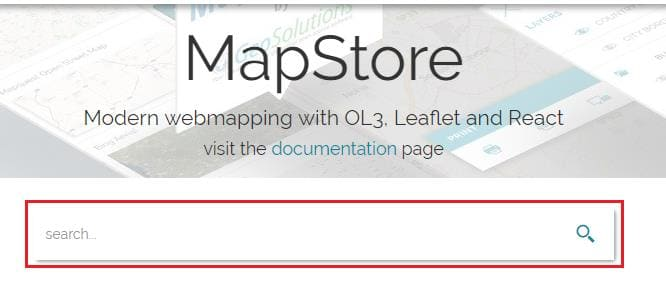
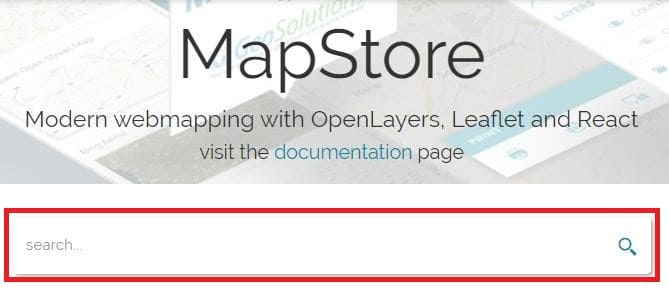
Homepage and little more

diff --git a/docs/user-guide/home-page.md b/docs/user-guide/home-page.md
@@ -1,74 +1,68 @@
 # Home Page
 *******************
 
-In order to get started, let us take a look at the portal interface and get an idea of how to navigate around it. Some functionalities are only restricted for
-*Administrators* and will be pointed out once encountered. However, you will learn more about *Administrators*, *Users* and *Groups* [here](managing-users-and-groups.md).
+In order to get started, let us take a look at the portal interface and get an idea of how to navigate around it. First of all it's necessary to specify that the user can take advantage of different tools and sections according to his authentication in [MapStore](https://mapstore.geo-solutions.it/mapstore/#/). In particular, a user can access the [MapStore](https://mapstore.geo-solutions.it/mapstore/#/) application by:
 
-Once logged in as *Administrator*, the *Welcome Home Page* shows up as in the figure below and you will be able to view and make use of all the functionalities.
+* Anonymous user
 
-<img src="../img/home-page/home-page.jpg" class="ms-docimage" />
+* Normal user
 
-Menu bar
---------
+* Administrator user
 
-On the top of the page, you can find the *Main Menu bar* showing the following menus :
+## Anonymous user
 
-* Connections to [GeoSolutions](https://www.geo-solutions.it/), Featured and Contents sections <img src="../img/home-page/connections.jpg" class="ms-docbutton" style="max-height:20px;"/> (will be treated later).
+Accessing MapStore as anonymous user, the [Homepage](https://mapstore.geo-solutions.it/mapstore/#/) shows up as in the figure below:
 
-* Language Switcher menu list.
+<img src="../img/home-page/homepage-anonym.jpg" class="ms-docimage"/>
 
-<img src="../img/home-page/language-switcher.jpg" class="ms-docimage"  style="max-width:200px;"/>
+The anonymous user is allowed to:
 
-* Own Account Manager menu.
+* Navigate through the *Featured* and *Contents* section 
 
-<img src="../img/home-page/own-account.jpg" class="ms-docimage"  style="max-width:200px;"/>
+<img src="../img/home-page/feat-cont.jpg" class="ms-docimage"/>
 
-* Accounts manager
+* Set the application language, with the *Language switcher*:
 
-<img src="../img/home-page/manage-accounts.jpg" class="ms-docimage"  style="max-width:200px;"/>
+<img src="../img/home-page/language-switcher.jpg" class="ms-docimage"  style="max-width:150px;"/>
 
-!!! note
-    The *Accounts manager* section, where *Users* and *Groups* can be managed, is reserved to the *Administrator*.
+* Login <img src="../img/button/login-b.jpg" class="ms-docbutton"/>:
 
-Search bar
-------------
+<img src="../img/home-page/login.jpg" class="ms-docimage"  style="max-width:500px;"/>
 
-Under the menu bar, you can use the *Search bar* to search maps and dashboards stored in [MapStore](https://mapstore.geo-solutions.it/mapstore/#/).
+* Perform a search for resources, through the *Search bar*:
 
 <img src="../img/home-page/search-bar.jpg" class="ms-docimage"  style="max-width:500px;"/>
 
-New Map and Dashboard
----------------------
+* [Share](share.md) a resource <img src="../img/button/share.jpg" class="ms-docbutton"/>
 
-Under the search bar you can find two icon buttons to create a <span style="color:red">New Map</span> or a <span style="color:blue">New Dashboard</span>.
+* Take a look at map [details](resources-properties.md#details) when available <img src="../img/button/details_button.jpg" class="ms-docbutton"/>
 
-<img src="../img/home-page/map-dash.jpg" class="ms-docimage"/>
+* Open resources and navigate inside it according to their [permissions](resources-properties.md#permission-rules)
 
-Featured
---------
+## Normal user
 
-In this container the favorites maps and dashboards are stored and marked by a green star.
+With a login as normal user, the [Homepage](https://mapstore.geo-solutions.it/mapstore/#/) displays as below:
 
-<img src="../img/home-page/featured.jpg" class="ms-docimage"/>
+<img src="../img/home-page/homepage-user.jpg" class="ms-docimage" />
 
-!!! note
-    Only *Administrators* can add maps and dashboards to *Featured* by clicking on the star icon button.
+The normal user, in addition to what the anonymous user can do, is allowed to:
 
-Contents
---------
+* Create new resources:
 
-In this section new maps will be stored into the <span style="color:red">*Maps* </span>container and new dashboards into the <span style="color:blue">*Dashboards* </span>container.
+<img src="../img/home-page/new-res.jpg" class="ms-docimage" style="max-width:150px;"/>
 
-<img src="../img/home-page/contents.jpg" class="ms-docimage"/>
+* View, edit and remove resources according to their [permissions](resources-properties.md#permission-rules) <img src="../img/button/remove-edit.jpg" class="ms-docbutton"/>
 
-Depending on the permissions, the user can view and use the configuration icon buttons for each map or dashboard.
+## Administrator user
 
-<img src="../img/home-page/config.jpg" class="ms-docimage"/>
+Once logged in as *Administrator*, the [Homepage](https://mapstore.geo-solutions.it/mapstore/#/) it's like the following:
 
-* <img src="../img/button/delete.jpg" class="ms-docbutton"/> allows you to delete the map or the dashboard.
+<img src="../img/home-page/homepage-admin.jpg" class="ms-docimage" />
 
-* <img src="../img/button/properties.jpg" class="ms-docbutton"/> allows you to edit the properties of the map or the dashboard such as the thumbnail, name, details and permissions.
+The admin can see and edit everything. In particular, in addition to what normal user can do, an administrator:
 
-* <img src="../img/button/details.jpg" class="ms-docbutton"/> allows you to show the map or the dashboard details.
+* Access the [Accounts manager](managing-users-and-groups.md) <img src="../img/button/acc-manager.jpg" class="ms-docbutton"/>
 
-* <img src="../img/button/add-featured.jpg" class="ms-docbutton"/> allows you to add the map or the dashboard to *Featured*.
+* Menage the *Featured* resources by including <img src="../img/button/featured.jpg" class="ms-docbutton"/> or excluding <img src="../img/button/unfeatured.jpg" class="ms-docbutton"/> them from this section
+
+* View, edit and remove any resource

diff --git a/docs/user-guide/resources-properties.md b/docs/user-guide/resources-properties.md
@@ -1,15 +1,7 @@
 # Resource Properties
 ------------------------------
 
-What a user can do on a resource (both maps and dashboards) depends on its role.
-
-* **Admin** users can manage accounts and can *view* and *edit* all the maps and dashboards, whoever created them
-
-* **Users** can view and edit only those maps and dashboards which they have created. If they are neither administrators nor owners, what they can do depends on the *Rights* assigned to the group they belong to
-
-* **Everyone** can view or edit the maps and dashboard according to the *rights* that have been assigned by the administrator or their owners
-
-In order to customize the properties of a resource, the admin or an user with permission can access the **Edit properties** window from the **Edit properties** button <img src="../img/button/edit-icon.jpg" class="ms-docbutton"/> in [Homepage](https://mapstore.geo-solutions.it/mapstore/#/) or from the **Save**/**Save as** button inside the resource viewer.
+In order to customize the properties of a resource, the admin or a normal user with permission can access the **Edit properties** window from the **Edit properties** button <img src="../img/button/edit-icon.jpg" class="ms-docbutton"/> in [Homepage](https://mapstore.geo-solutions.it/mapstore/#/) or from the **Save**/**Save as** button inside the resource viewer.
 
 <img src="../img/resource-properties/edit-properties.jpg" class="ms-docimage"  style="max-width:400px;"/>
 
@@ -31,11 +23,11 @@ It is possible to add an image as **thumbnail** dropping it or clicking inside t
 <img src="../img/resource-properties/thumb.jpg" class="ms-docimage"/>
 
 !!! warning
-    The image to be added must not be larger than 500 kb and its best dimensions are 300x180 px.
+    The image to be added must not be larger than 500 kb and its best dimensions are 300x180 px. The supported formats are `jpg` (or `jpeg`) and `png`.
 
-## Permission rule
+## Permission rules
 
-In the **Add a rule...** section you can set one ore more permission rules in order to allow everyone and/or specific groups of users to access the resource. Moreover it is possible to choose between two different ways with which the selected group can approach the resource:
+In the **Add a rule...** section you can set one ore more permission rules in order to allow a group to access the resource. In particular it is possible to choose between a particular group of authenticated users or the *everyone* group that includes all authenticated users but also anonymous users. Moreover it is possible to choose between two different ways with which the selected group can approach the resource:
 
 * **View** the map and save a copy
 

diff --git a/docs/user-guide/text-editor-details.md b/docs/user-guide/text-editor-details.md
@@ -28,3 +28,6 @@ With the *text editor toolbar* it is possible to customize the text by modifying
 * **Link** to add a hyperlink to the text (<img src="../img/button/link-button.jpg" class="ms-docbutton"/>)
 
 <img src="../img/text-editor-details/link-text-details.jpg" class="ms-docimage"/>
+
+!!! note
+    In order to connect to a website external to Mapstore, the protocol must be specified (e.g., `http://` or `https://`).
